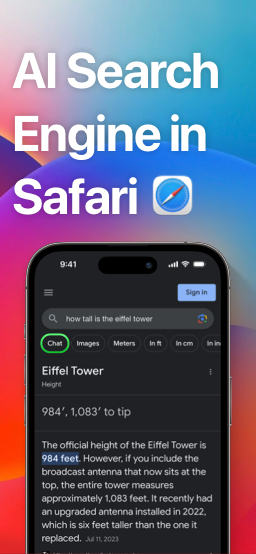
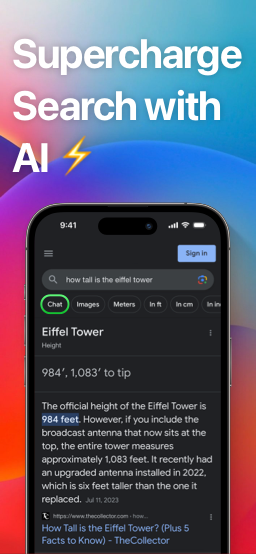
Supercharge Slogan

diff --git a/README.md b/README.md
@@ -1,6 +1,6 @@
 # Parrotflow 🦜🌊
 
-> Get an answer, not links
+> Supercharge Search with AI
 
 [![download-app](/.README/assets/badges/download-app.svg)](https://parrotflow.com)
 [![google](/.README/assets/badges/google.svg)](https://parrotflow.com)
